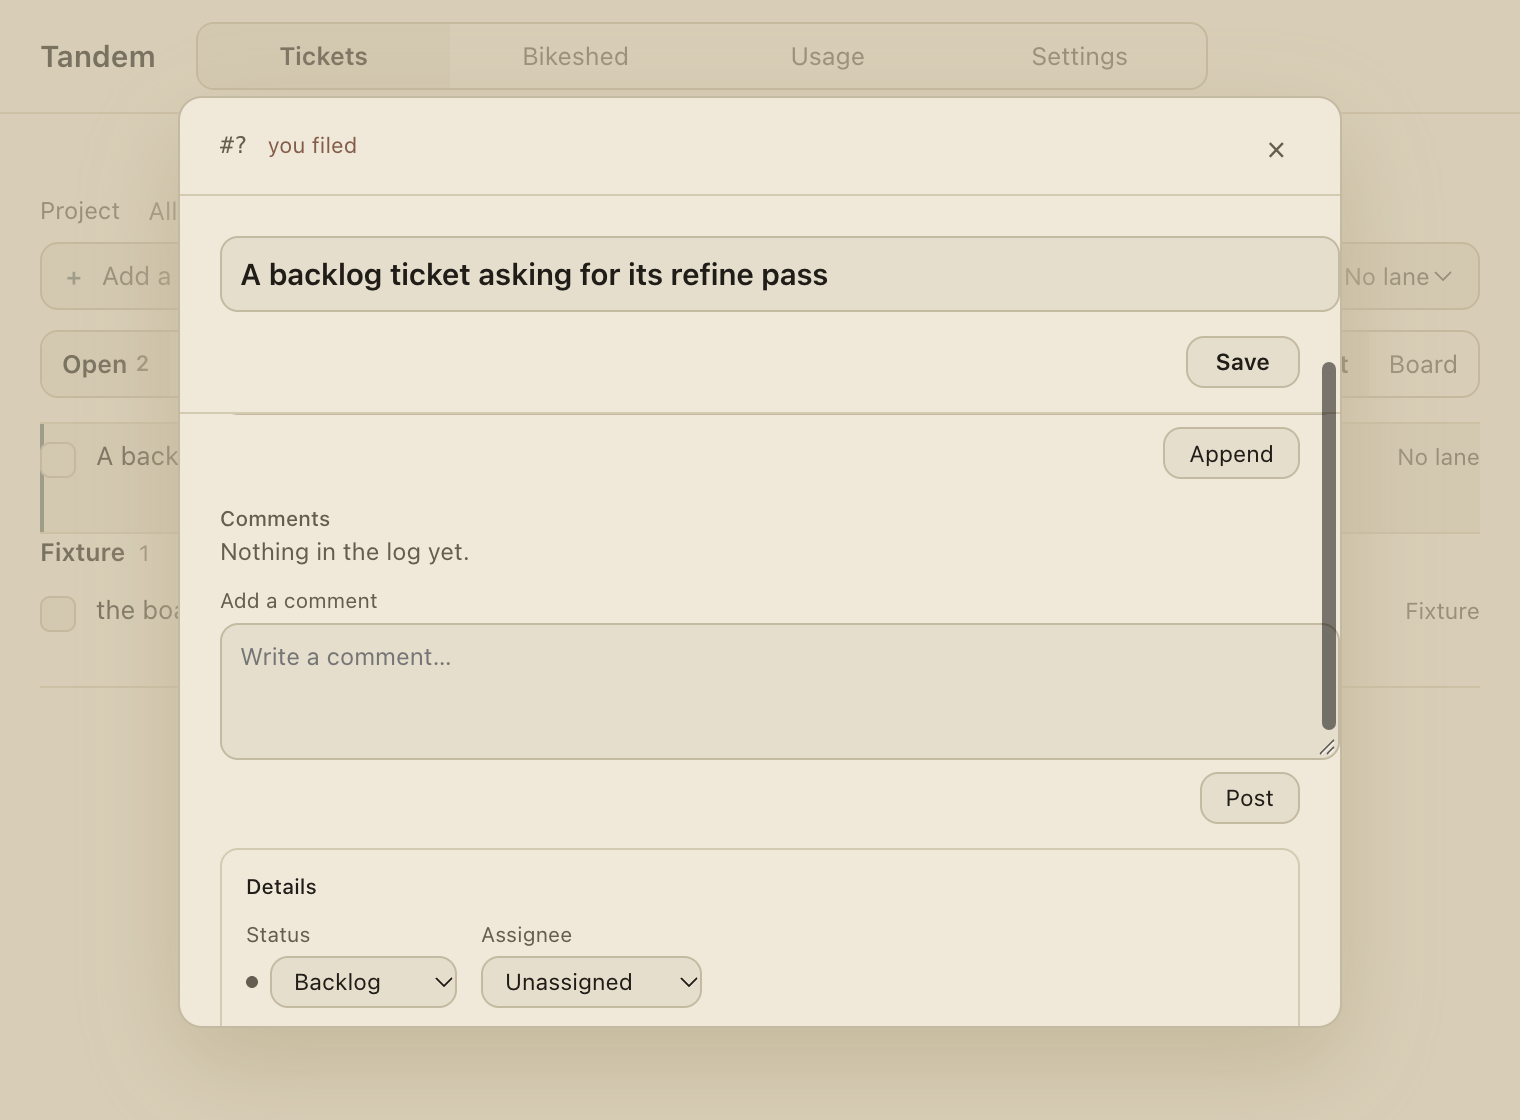
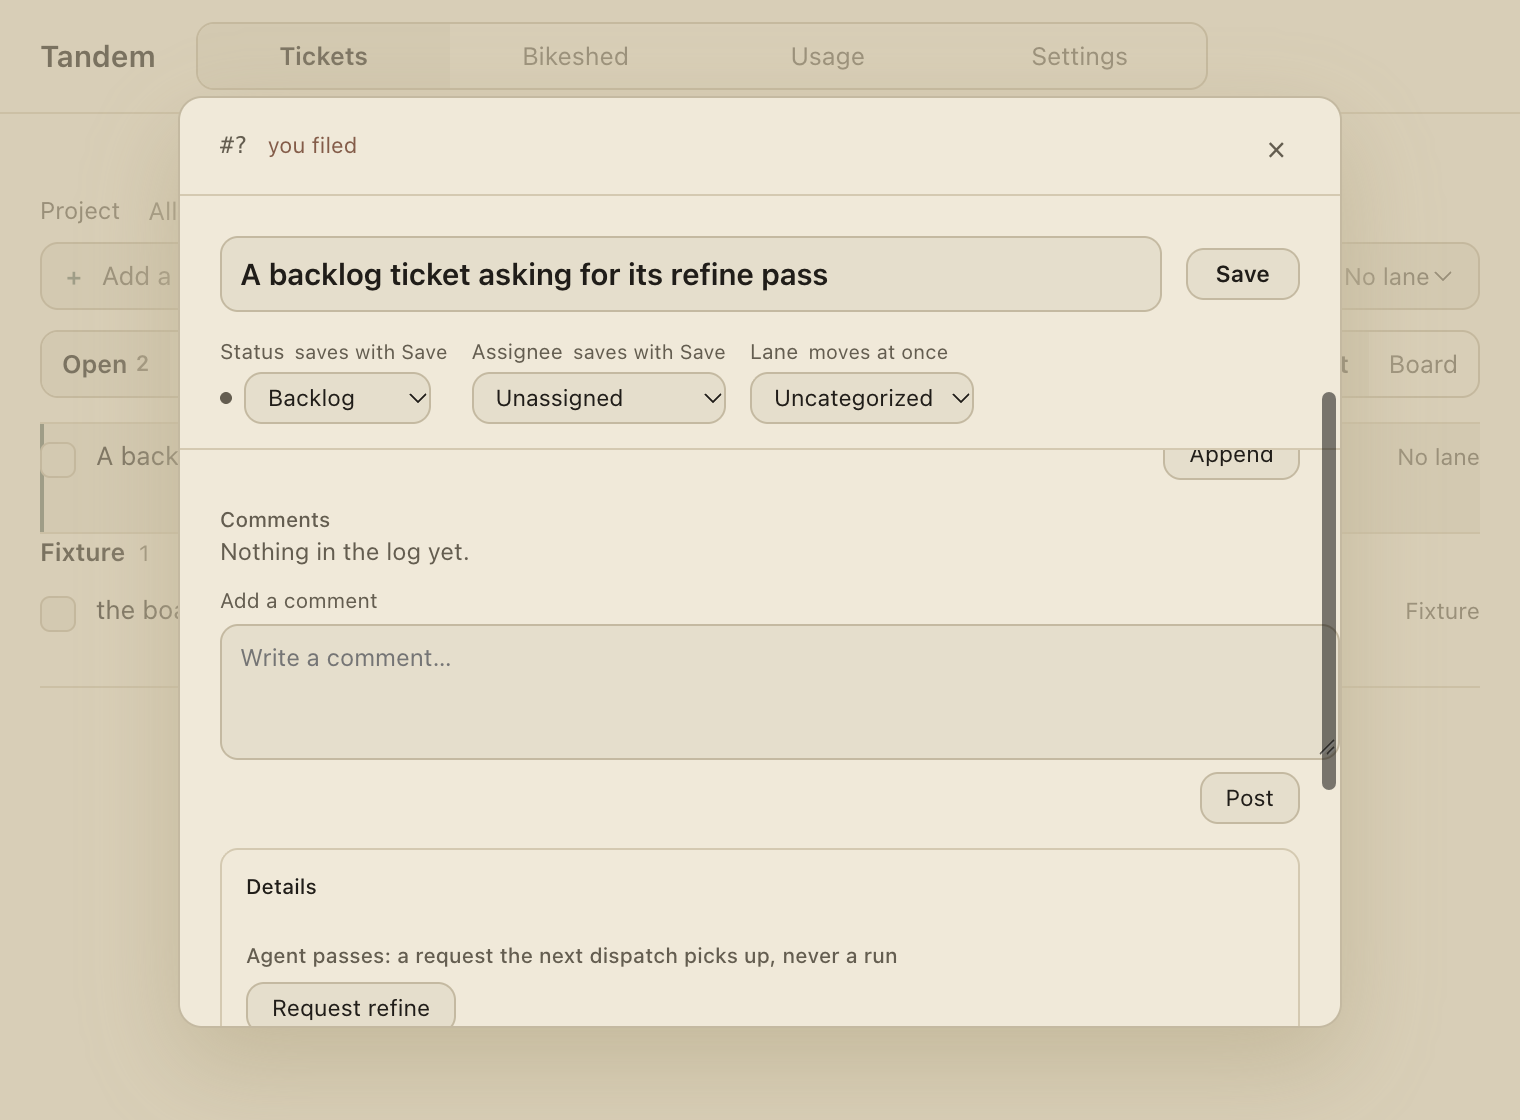
UI-34: re-photograph the sheet picture with its metadata row

diff --git a/app/renderer/src/faces/TicketSheet.tsx b/app/renderer/src/faces/TicketSheet.tsx
@@ -68,9 +68,13 @@ const CLAIM_CHANGED = 'The claim landed, but the comment did not.'
  * and appended to, never rewritten, and the log is read-only: the sheet's half
  * of it is the composer, which only appends.
  *
- * Order from top: title, Description, Comments, then one collapsed Details
- * disclosure holding Status, Assignee, passes, Dependencies, Lanes and
- * Sessions. Details starts closed on every opening and persists nothing.
+ * Order from top: the title with its Save, then one row of the three facts a
+ * human asks of a card (status, assignee, lane), then Description, then
+ * Comments, then one collapsed Details disclosure holding the pass requests,
+ * the dependencies, lane creation and rename, and Sessions. The title block and
+ * the metadata row share the sticky band, so the three facts stay in view while
+ * the description scrolls. Details starts closed on every opening and persists
+ * nothing.
  */
 export function TicketSheet({
   ticketId,

diff --git a/app/renderer/src/shell/sheet.ts b/app/renderer/src/shell/sheet.ts
@@ -131,9 +131,9 @@ export function appendDescription(
 
 /**
  * Whether the sheet's Details disclosure starts open: it does not. The section
- * holds Status, Assignee, passes, Dependencies, Lanes and Sessions behind one
- * collapsed disclosure, and the disclosure remembers nothing across openings:
- * every opening draws it closed, with no persistence.
+ * holds the pass requests, the dependencies, lane creation and rename, and
+ * Sessions behind one collapsed disclosure, and the disclosure remembers
+ * nothing across openings: every opening draws it closed, with no persistence.
  */
 export function detailsInitiallyOpen(): boolean {
   return false
